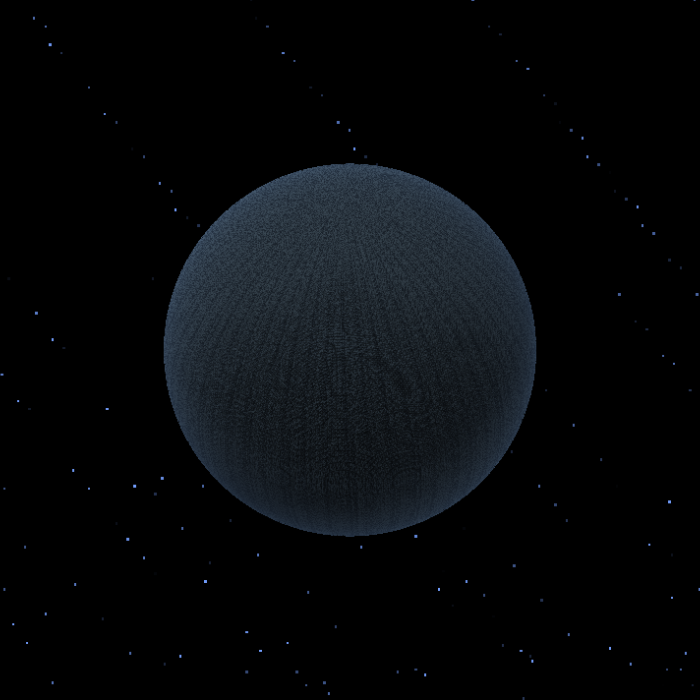
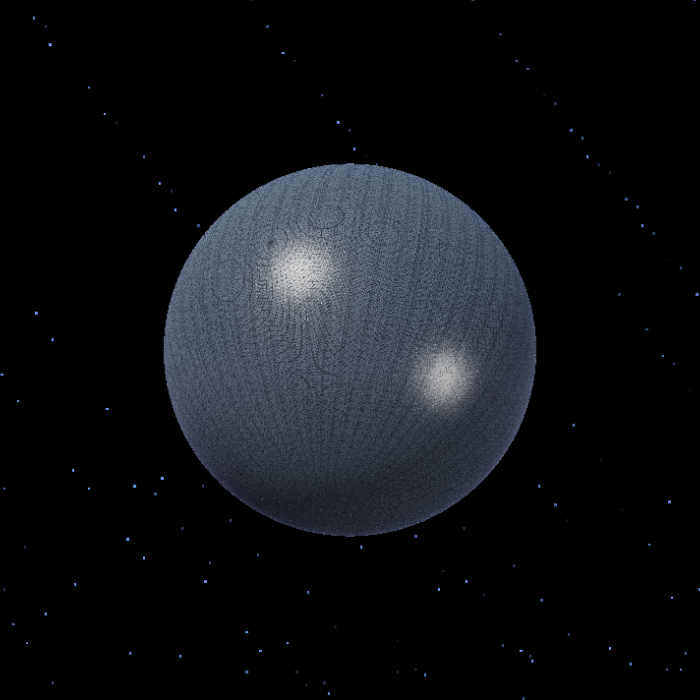
Physically-inspired facet shading for a more realistic close-up
Replaces the flat cartoon triangles with rounded bevels (normals roll to
the sphere at edges), groove ambient occlusion, per-face normal jitter
with ~14% off-axis facets that catch sharp Blinn-Phong glints from two
lights, Fresnel-weighted procedural environment reflections, metal grain,
and an ACES-fit tonemap with proper gamma. Gold face is now deep metallic
amber. DPR cap raised to 2 for crisper close-ups. Refreshed README/social
captures with the new renderer.

Changed region(s): [[0.21, 0.21, 0.78, 0.72]]

diff --git a/index.html b/index.html
@@ -1103,6 +1103,23 @@
           return fract(p);
         }
 
+        float hash21(vec2 p) {
+          vec3 q = fract(vec3(p.xyx) * 0.1031);
+          q += dot(q, q.yzx + 33.33);
+          return fract((q.x + q.y) * q.z);
+        }
+
+        // Procedural night environment used for specular reflections:
+        // a deep blue gradient, a faint galactic band, and reflected stars.
+        vec3 envColor(vec3 r) {
+          float up = r.y * 0.5 + 0.5;
+          vec3 sky = mix(vec3(0.010, 0.014, 0.030), vec3(0.075, 0.115, 0.220), pow(up, 1.6));
+          sky += vec3(0.085, 0.075, 0.120) * exp(-abs(r.y + 0.18) * 3.5);
+          float star = step(0.9935, hash21(floor(vec2(atan(r.z, r.x) * 120.0, r.y * 150.0))));
+          sky += vec3(0.85, 0.92, 1.0) * star * 0.30;
+          return sky;
+        }
+
         vec3 sphereFromUV(vec2 uv) {
           float lon = (uv.x - 0.5) * TAU;
           float lat = (uv.y - 0.5) * PI;
@@ -1163,40 +1180,70 @@
           vec3 p2 = sphereFromUV(uv2);
           vec3 localFaceNormal = normalize(cross(p1 - p0, p2 - p0));
           if (dot(localFaceNormal, p0 + p1 + p2) < 0.0) localFaceNormal *= -1.0;
-          vec3 faceNormal = normalize(u_rotation * localFaceNormal);
+          // Each stamped facet is tilted a hair off true, and roughly one in
+          // ten is cut noticeably off-axis — those are the ones that catch the
+          // light and make the surface glitter as it rotates.
+          float cut = hash11(faceId * 3.719 + 0.51);
+          float tiltAmp = 0.045 + step(0.86, cut) * 0.24;
+          vec3 tiltedLocal = normalize(localFaceNormal + vec3(
+            hash11(faceId * 0.7719 + 3.17) - 0.5,
+            hash11(faceId * 1.3173 + 7.71) - 0.5,
+            hash11(faceId * 2.1317 + 1.33) - 0.5) * tiltAmp);
+          vec3 faceNormal = normalize(u_rotation * tiltedLocal);
+          vec3 sphereNormal = normalize(worldPos);
 
-          vec3 key = normalize(vec3(-0.46, 0.72, 0.60));
-          vec3 fill = normalize(vec3(0.7, -0.2, 0.45));
-          float diffuse = max(dot(faceNormal, key), 0.0);
-          float secondary = max(dot(faceNormal, fill), 0.0) * 0.24;
-          float rim = pow(1.0 - max(dot(normalize(worldPos), normalize(ro - worldPos)), 0.0), 2.3);
-          float faceNoise = hash11(faceId + 17.0);
-
-          vec3 base = mix(vec3(0.055, 0.075, 0.10), vec3(0.16, 0.205, 0.24), faceNoise);
           float edge = min(min(f.x, f.y), min(1.0 - f.x, 1.0 - f.y));
           edge = min(edge, abs(f.x + f.y - 1.0) * 0.70710678);
           float footprint = max(fwidth(grid.x), fwidth(grid.y));
-          float detail = 1.0 - smoothstep(0.55, 2.2, footprint);
+          float detail = 1.0 - smoothstep(0.45, 2.4, footprint);
           detail = clamp(detail + u_detailBoost, 0.0, 1.0);
-          float line = 1.0 - smoothstep(0.018, 0.018 + max(fwidth(edge) * 1.25, 0.005), edge);
-          line *= detail;
 
-          vec3 color = base * (0.30 + diffuse * 0.78 + secondary);
-          color += vec3(0.08, 0.12, 0.18) * rim;
-          color = mix(color, color * 0.22, line * 0.82);
+          // Rounded bevels: near an edge the normal rolls back toward the
+          // smooth sphere. When faces are subpixel, keep a little facet
+          // influence so the distant object still sparkles.
+          float bevel = smoothstep(0.0, 0.05, edge);
+          float facetStrength = mix(0.30, bevel, detail);
+          vec3 n = normalize(mix(sphereNormal, faceNormal, facetStrength));
+
+          // Grooves between facets trap light.
+          float ao = mix(1.0, 0.32 + 0.68 * smoothstep(0.0, 0.09, edge), detail);
+
+          vec3 viewDir = normalize(ro - worldPos);
+          vec3 key = normalize(vec3(-0.46, 0.72, 0.60));
+          vec3 fill = normalize(vec3(0.70, -0.20, 0.45));
+          float diffuse = max(dot(n, key), 0.0);
+          float secondary = max(dot(n, fill), 0.0) * 0.26;
+          vec3 halfVec = normalize(key + viewDir);
+          float ndh = max(dot(n, halfVec), 0.0);
+          float ndh2 = max(dot(n, normalize(fill + viewDir)), 0.0);
+          float specSharp = pow(ndh, 140.0) + pow(ndh2, 140.0) * 0.55;
+          float specBroad = pow(ndh, 16.0);
+          float fresnel = pow(1.0 - max(dot(n, viewDir), 0.0), 5.0);
+          vec3 env = envColor(reflect(-viewDir, n));
+
+          float faceNoise = hash11(faceId + 17.0);
+          float grain = hash21(cell * 3.7 + floor(f * 18.0) * 0.591);
+          vec3 albedo = mix(vec3(0.040, 0.050, 0.065), vec3(0.115, 0.135, 0.160), faceNoise);
+          albedo *= 1.0 + (grain - 0.5) * 0.18 * detail;
+
+          vec3 color = albedo * (0.10 + 0.95 * diffuse + secondary) * ao;
+          color += (specSharp * 1.15 + specBroad * 0.09) * vec3(1.0, 0.98, 0.93) * (0.45 + 0.55 * fresnel) * ao;
+          color += env * (0.10 + 0.55 * fresnel) * ao;
 
           bool isGold = abs(faceId - u_goldFace) < 0.25;
           if (isGold) {
-            float sparkle = 0.72 + 0.28 * sin(u_time * 3.4 + f.x * 13.0 + f.y * 19.0);
-            vec3 gold = vec3(1.0, 0.55, 0.045) * (0.75 + diffuse * 0.82 + sparkle * 0.32);
-            float glint = pow(max(dot(reflect(-key, faceNormal), normalize(ro - worldPos)), 0.0), 26.0);
-            gold += vec3(1.0, 0.95, 0.62) * glint * 2.7;
-            color = mix(gold, gold * 0.42, line * 0.55);
+            float sparkle = 0.78 + 0.22 * sin(u_time * 3.4 + f.x * 13.0 + f.y * 19.0);
+            vec3 goldAlbedo = vec3(1.0, 0.48, 0.05);
+            color = goldAlbedo * (0.15 + 0.95 * diffuse + secondary * 0.5) * ao;
+            color += vec3(1.0, 0.80, 0.45) * (specSharp * 3.2 + specBroad * 0.55) * sparkle * ao;
+            color += env * vec3(1.0, 0.70, 0.30) * (0.25 + 0.75 * fresnel);
           }
 
           float vignette = 1.0 - smoothstep(0.72, 1.38, length(p));
-          color *= 0.76 + 0.24 * vignette;
-          color = pow(color, vec3(0.86));
+          color *= 0.80 + 0.20 * vignette;
+          // Filmic (ACES-fit) tonemap, then gamma encode.
+          color = (color * (2.51 * color + 0.03)) / (color * (2.43 * color + 0.59) + 0.14);
+          color = pow(clamp(color, 0.0, 1.0), vec3(0.4545));
           return vec4(color, 1.0);
         }
       `;
@@ -1260,7 +1307,7 @@
     function resizeCanvas() {
       if (!gl) return;
       const rect = canvas.getBoundingClientRect();
-      const dpr = Math.min(window.devicePixelRatio || 1, 1.7);
+      const dpr = Math.min(window.devicePixelRatio || 1, 2);
       const width = Math.max(1, Math.floor(rect.width * dpr));
       const height = Math.max(1, Math.floor(rect.height * dpr));
       if (canvas.width !== width || canvas.height !== height) {

diff --git a/README.md b/README.md
@@ -14,7 +14,9 @@ A deliberately 1997-flavored, single-file web toy that makes one-in-a-million od
 
 | From orbit | At human range |
 |---|---|
-| ![The die from a distance — an apparently smooth sphere](assets/far-view.png) | One million addressable triangles, one of them gold. Drag, hold arrow keys / WASD, or use the on-screen pad. Movement is intentionally restrained — the universe does not owe you a convenient search speed. |
+| ![The die from a distance — an apparently smooth sphere](assets/far-view.png) | ![Up close — beveled metallic facets, and the gold one](assets/gold-closeup.png) |
+
+One million addressable triangles, one of them gold. Drag, hold arrow keys / WASD, or use the on-screen pad. Movement is intentionally restrained — the universe does not owe you a convenient search speed.
 
 - **YES** selects one of 1,000,000 face addresses using the browser's cryptographic RNG. If the first random face is gold, that genuinely happened at 1-in-1,000,000 odds for your session.
 - **NO** produces a randomized anti-meme error dialog, as required by Internet law.
